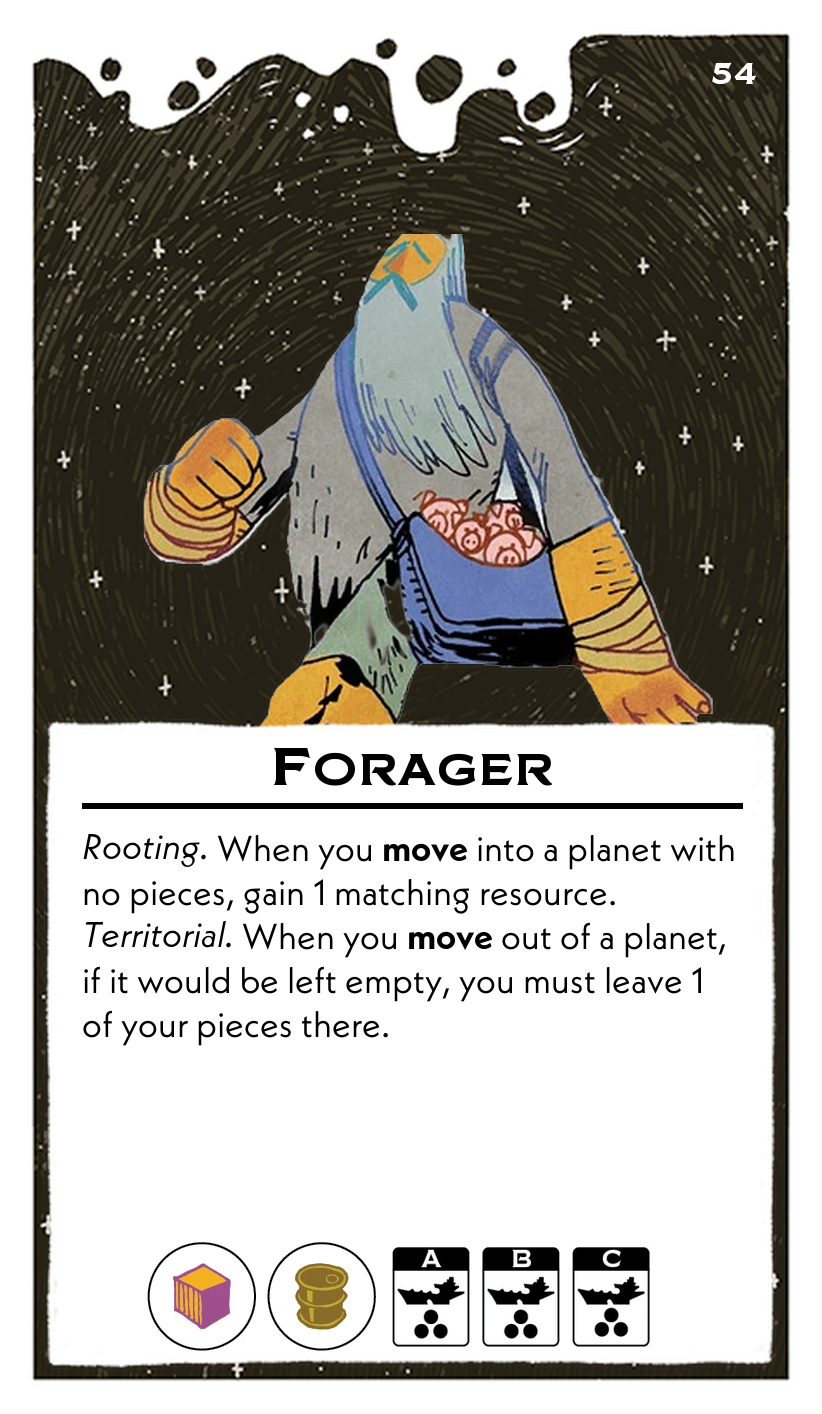
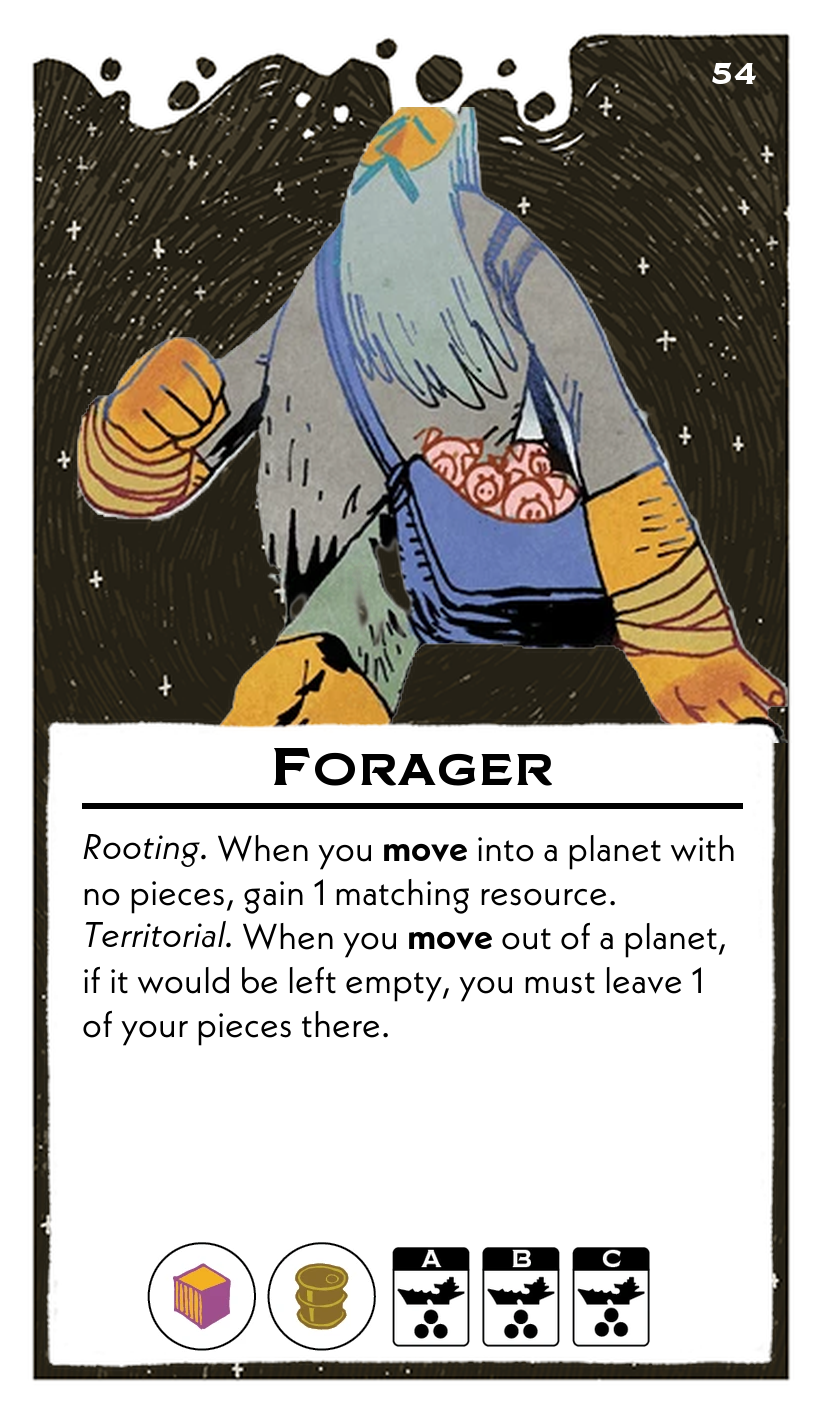
forageer

Changed region(s): [[0.0912, 0.0622, 0.9732, 0.529]]

diff --git a/scripts/leadersFormatted.py b/scripts/leadersFormatted.py
@@ -835,7 +835,9 @@ leaders = [
             "B": {"ships": 3, "building": "None"},
             "C": {"ships": 3, "building": "None"}
         },
-        "body_font_size": 18
+        "body_font_size": 18,
+        "zoom": 1.25,
+
     },
     {
         "name": "Highroller",
